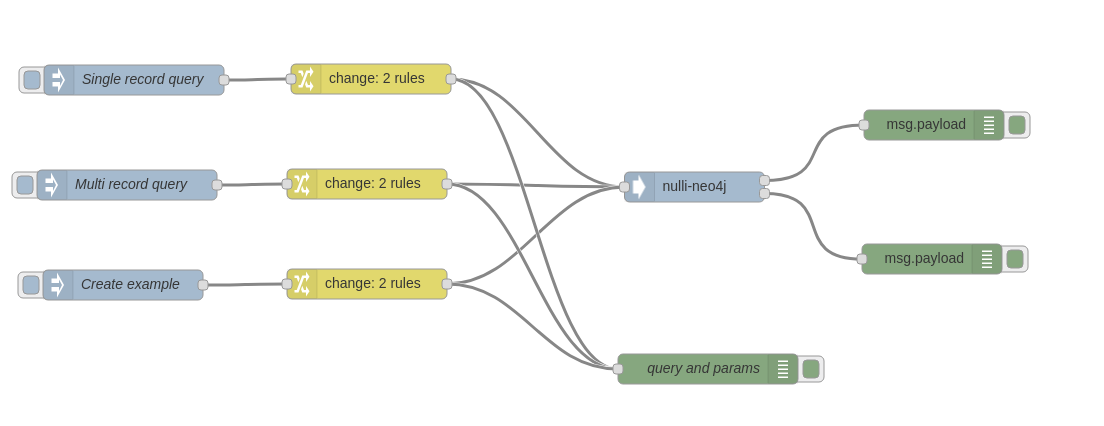
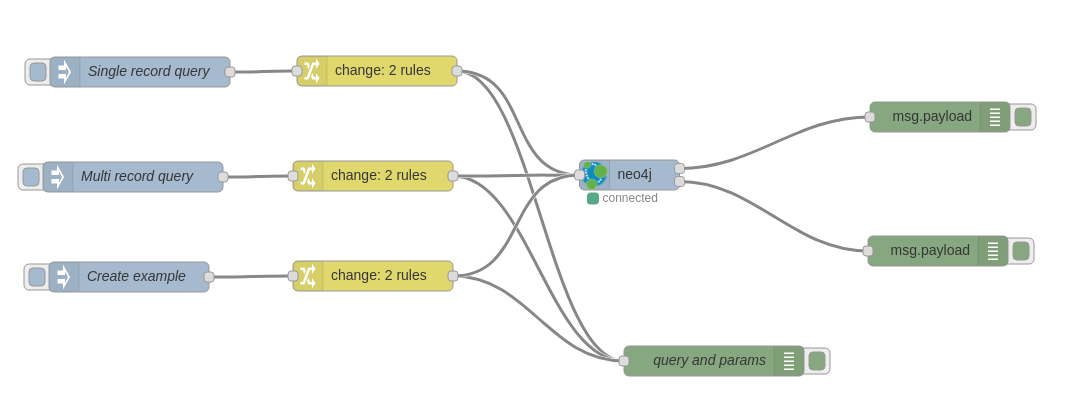
updated the example flow

Changed region(s): [[0.0, 0.12, 0.9688, 0.96], [0.6875, 0.48, 0.9688, 0.69]]

diff --git a/README.md b/README.md
@@ -43,7 +43,7 @@ You can import the following and use it with the [neo4j example movie dataset](h
 ![Example Flow](./docs/images/example_flow.png)
 
 ```
-[{"id":"e10395d.a56ef68","type":"inject","z":"488d970f.76d278","name":"Single record query","topic":"","payload":"","payloadType":"date","repeat":"","crontab":"","once":false,"onceDelay":0.1,"x":178,"y":170,"wires":[["9eb7f4e.b975a08"]]},{"id":"edc735f1.c9aeb8","type":"debug","z":"488d970f.76d278","name":"","active":true,"tosidebar":true,"console":false,"tostatus":false,"complete":"payload","x":978,"y":215,"wires":[]},{"id":"9f02f37e.2cb1c","type":"nulli-neo4j","z":"488d970f.76d278","name":"","url":"bolt://localhost:7687","username":"neo4j","password":"test1234","query":"","x":738.5,"y":277,"wires":[["edc735f1.c9aeb8"],["b2bd2c4.0a654d"]]},{"id":"9eb7f4e.b975a08","type":"change","z":"488d970f.76d278","name":"","rules":[{"t":"set","p":"query","pt":"msg","to":"MATCH (m:Movie {title: $moviename})  RETURN m","tot":"str"},{"t":"set","p":"params","pt":"msg","to":"{\"moviename\": \"Forrest Gump\"}","tot":"str"}],"action":"","property":"","from":"","to":"","reg":false,"x":415,"y":169,"wires":[["9f02f37e.2cb1c","c9467e8a.62018"]]},{"id":"b2bd2c4.0a654d","type":"debug","z":"488d970f.76d278","name":"","active":true,"tosidebar":true,"console":false,"tostatus":false,"complete":"payload","x":976,"y":349,"wires":[]},{"id":"3e3a33b3.12f48c","type":"inject","z":"488d970f.76d278","name":"Multi record query","topic":"","payload":"","payloadType":"date","repeat":"","crontab":"","once":false,"onceDelay":0.1,"x":171,"y":275,"wires":[["9e73c15d.04eb4"]]},{"id":"9e73c15d.04eb4","type":"change","z":"488d970f.76d278","name":"","rules":[{"t":"set","p":"query","pt":"msg","to":"MATCH (m:Movie {title: $moviename})<-[:ACTS_IN]-(a:Actor)  RETURN a","tot":"str"},{"t":"set","p":"params","pt":"msg","to":"{\"moviename\": \"Forrest Gump\"}","tot":"str"}],"action":"","property":"","from":"","to":"","reg":false,"x":411,"y":274,"wires":[["9f02f37e.2cb1c","c9467e8a.62018"]]},{"id":"94ca7897.d13bd8","type":"change","z":"488d970f.76d278","name":"","rules":[{"t":"set","p":"query","pt":"msg","to":"merge (m:Movie {title: $moviename}) set m += $props return m","tot":"str"},{"t":"set","p":"params","pt":"msg","to":"{\t   \"moviename\": \"My Blockbuster Movie\",\t   \"props\": {\t       \"studio\":\"Home Prod\",\t       \"runtime\":142,\t       \"description\":\"This is my first movie\",\t       \"language\":\"en\",\t       \"version\":274,\t       \"imageUrl\":\"https://c1.staticflickr.com/9/8387/8453530769_9bab22d205_b.jpg\",\t       \"genre\":\"Comedy\",\t       \"tagline\":\"How not to make a movie...\",\t       \"homepage\":\"\"\t   } \t}","tot":"jsonata"}],"action":"","property":"","from":"","to":"","reg":false,"x":411,"y":374,"wires":[["9f02f37e.2cb1c","c9467e8a.62018"]]},{"id":"8f998b68.265728","type":"inject","z":"488d970f.76d278","name":"Create example","topic":"","payload":"","payloadType":"date","repeat":"","crontab":"","once":false,"onceDelay":0.1,"x":167,"y":375,"wires":[["94ca7897.d13bd8"]]},{"id":"c9467e8a.62018","type":"debug","z":"488d970f.76d278","name":"query and params","active":true,"tosidebar":true,"console":false,"tostatus":false,"complete":"true","x":752,"y":459,"wires":[]}]
+[{"id":"e10395d.a56ef68","type":"inject","z":"488d970f.76d278","name":"Single record query","topic":"","payload":"","payloadType":"date","repeat":"","crontab":"","once":false,"onceDelay":0.1,"x":178,"y":170,"wires":[["9eb7f4e.b975a08"]]},{"id":"edc735f1.c9aeb8","type":"debug","z":"488d970f.76d278","name":"","active":true,"tosidebar":true,"console":false,"tostatus":false,"complete":"payload","x":978,"y":215,"wires":[]},{"id":"9eb7f4e.b975a08","type":"change","z":"488d970f.76d278","name":"","rules":[{"t":"set","p":"query","pt":"msg","to":"MATCH (m:Movie {title: $moviename})  RETURN m","tot":"str"},{"t":"set","p":"params","pt":"msg","to":"{\"moviename\": \"Forrest Gump\"}","tot":"str"}],"action":"","property":"","from":"","to":"","reg":false,"x":415,"y":169,"wires":[["c9467e8a.62018","ce358d36.ff73c"]]},{"id":"b2bd2c4.0a654d","type":"debug","z":"488d970f.76d278","name":"","active":true,"tosidebar":true,"console":false,"tostatus":false,"complete":"payload","x":976,"y":349,"wires":[]},{"id":"3e3a33b3.12f48c","type":"inject","z":"488d970f.76d278","name":"Multi record query","topic":"","payload":"","payloadType":"date","repeat":"","crontab":"","once":false,"onceDelay":0.1,"x":171,"y":275,"wires":[["9e73c15d.04eb4"]]},{"id":"9e73c15d.04eb4","type":"change","z":"488d970f.76d278","name":"","rules":[{"t":"set","p":"query","pt":"msg","to":"MATCH (m:Movie {title: $moviename})<-[:ACTS_IN]-(a:Actor)  RETURN a","tot":"str"},{"t":"set","p":"params","pt":"msg","to":"{\"moviename\": \"Forrest Gump\"}","tot":"str"}],"action":"","property":"","from":"","to":"","reg":false,"x":411,"y":274,"wires":[["c9467e8a.62018","ce358d36.ff73c"]]},{"id":"94ca7897.d13bd8","type":"change","z":"488d970f.76d278","name":"","rules":[{"t":"set","p":"query","pt":"msg","to":"merge (m:Movie {title: $moviename}) set m += $props return m","tot":"str"},{"t":"set","p":"params","pt":"msg","to":"{\t   \"moviename\": \"My Blockbuster Movie\",\t   \"props\": {\t       \"studio\":\"Home Prod\",\t       \"runtime\":142,\t       \"description\":\"This is my first movie\",\t       \"language\":\"en\",\t       \"version\":274,\t       \"imageUrl\":\"https://c1.staticflickr.com/9/8387/8453530769_9bab22d205_b.jpg\",\t       \"genre\":\"Comedy\",\t       \"tagline\":\"How not to make a movie...\",\t       \"homepage\":\"\"\t   } \t}","tot":"jsonata"}],"action":"","property":"","from":"","to":"","reg":false,"x":411,"y":374,"wires":[["c9467e8a.62018","ce358d36.ff73c"]]},{"id":"8f998b68.265728","type":"inject","z":"488d970f.76d278","name":"Create example","topic":"","payload":"","payloadType":"date","repeat":"","crontab":"","once":false,"onceDelay":0.1,"x":167,"y":375,"wires":[["94ca7897.d13bd8"]]},{"id":"c9467e8a.62018","type":"debug","z":"488d970f.76d278","name":"query and params","active":true,"tosidebar":true,"console":false,"tostatus":false,"complete":"true","x":752,"y":459,"wires":[]},{"id":"ce358d36.ff73c","type":"node-red-contrib-nulli-neo4j","z":"488d970f.76d278","name":"neo4j","url":"bolt://localhost:7689","username":"neo4j","password":"test1234","query":"","x":667.5,"y":273,"wires":[["edc735f1.c9aeb8"],["b2bd2c4.0a654d"]]}]
 ```
 
 This node uses the [neo4j-driver](https://www.npmjs.com/package/neo4j-driver) package to communicate with neo4j.
